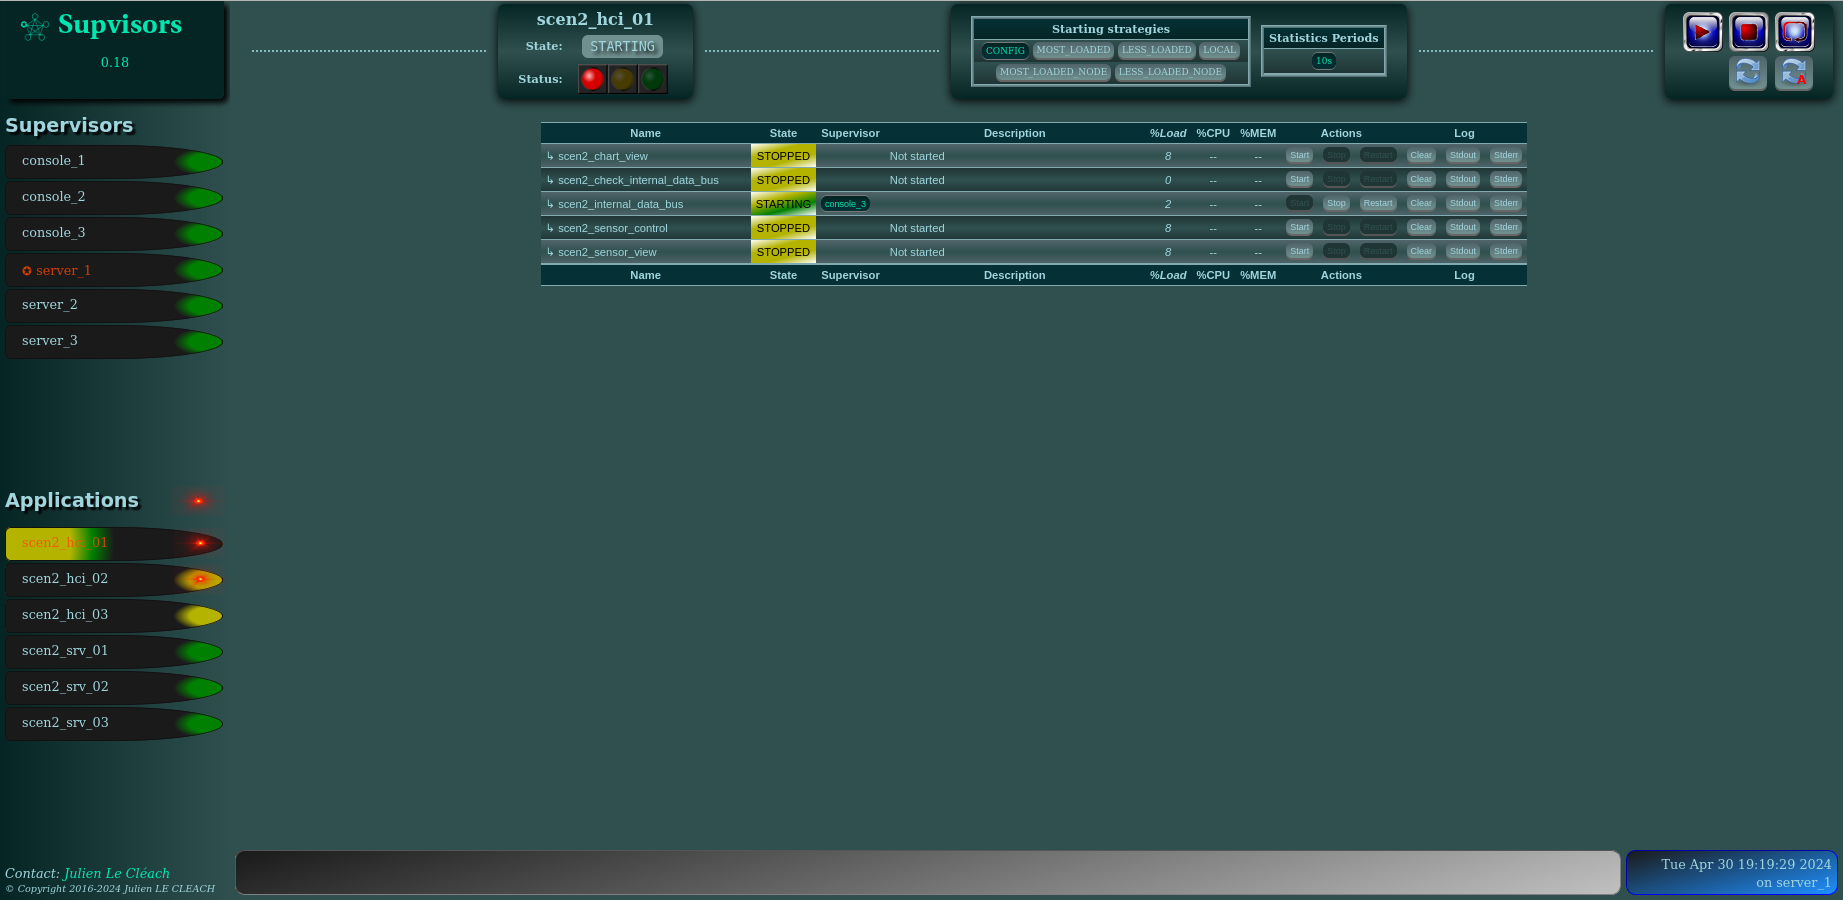
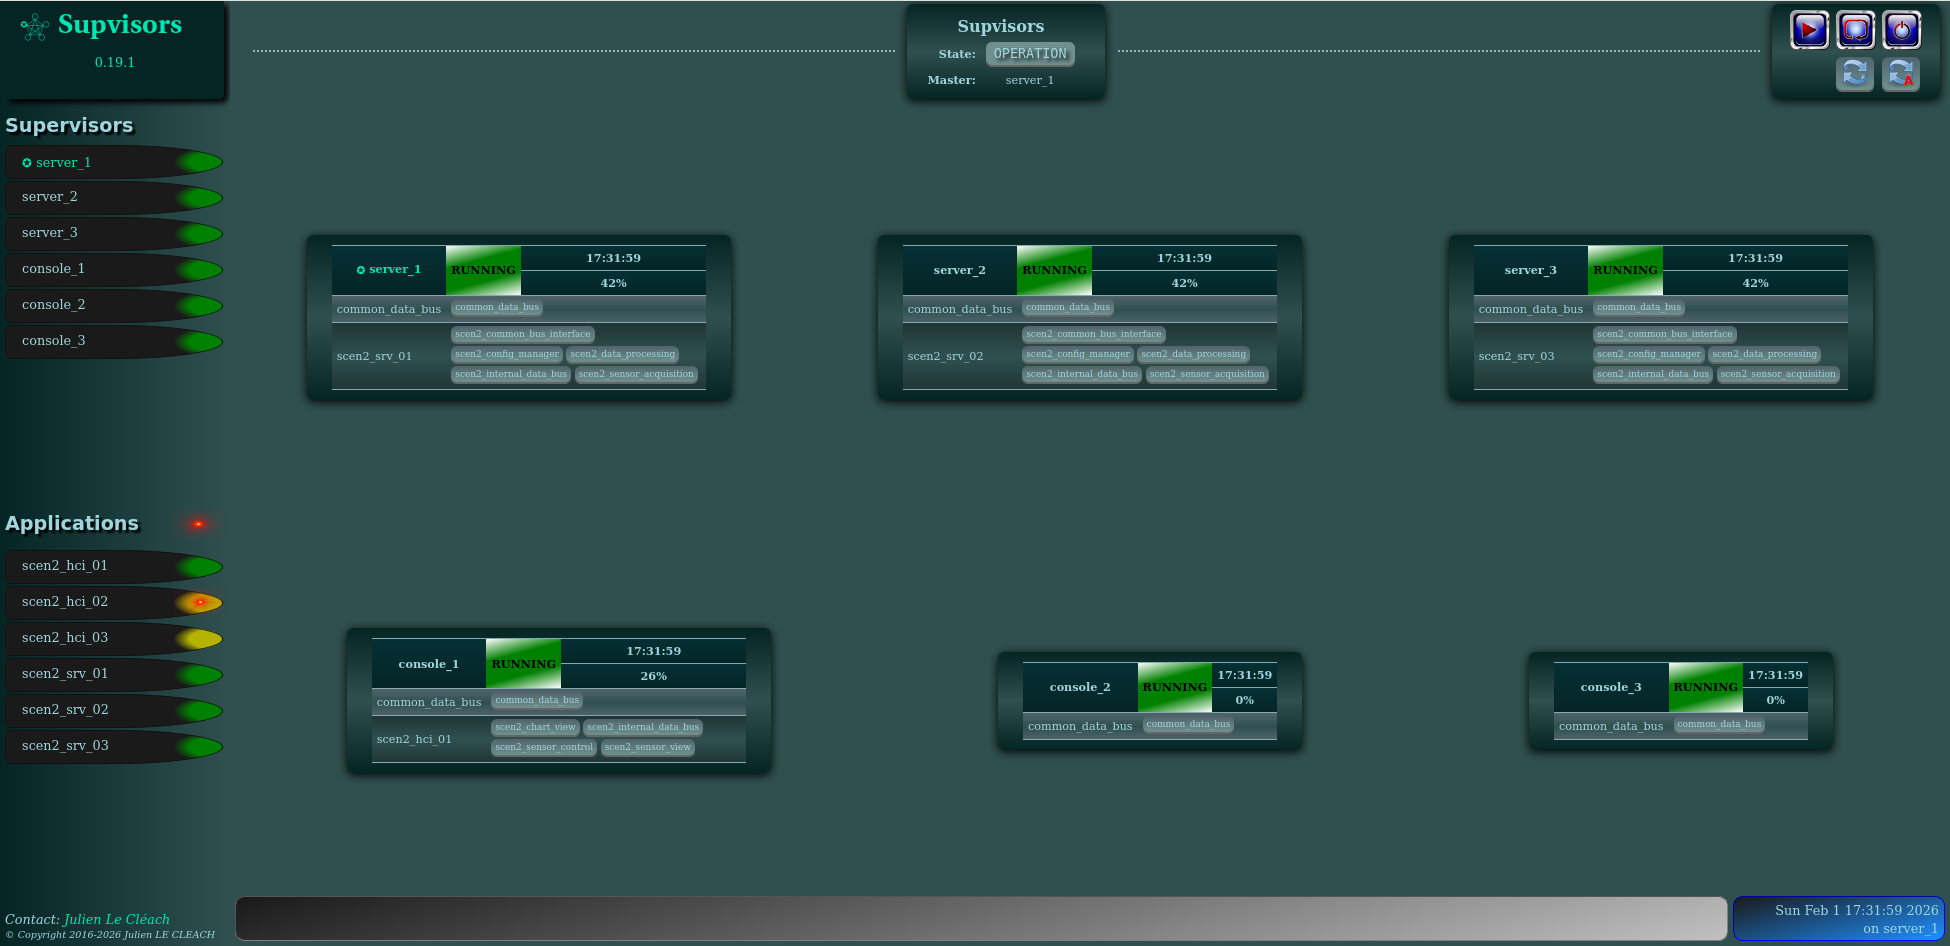
fix get_network_info when used with a nickname as parameter

diff --git a/supvisors/tests/test_rpcinterface.py b/supvisors/tests/test_rpcinterface.py
@@ -130,7 +130,7 @@ def test_network_info(rpc):
                                                    'nic_info': {'ipv4_address': '10.0.0.1',
                                                                 'netmask': '255.255.255.0',
                                                                 'nic_name': 'eth0'}}}}}
-    assert rpc.get_network_info(rpc.supvisors.mapper.local_identifier) == expected
+    assert rpc.get_network_info(rpc.supvisors.mapper.local_identifier) == [expected]
     # test with unknown identifier
     with pytest.raises(RPCError) as exc:
         rpc.get_network_info('10.0.0.0')

diff --git a/CHANGES.md b/CHANGES.md
@@ -1,6 +1,6 @@
 # Change Log
 
-## 0.19.1 (2026-xx-xx)
+## 0.19.1 (2026-02-01)
 
 * Fix [Issue #134](https://github.com/julien6387/supvisors/issues/134).
   Reload the **Supvisors** process configuration after Supervisor is updated.
